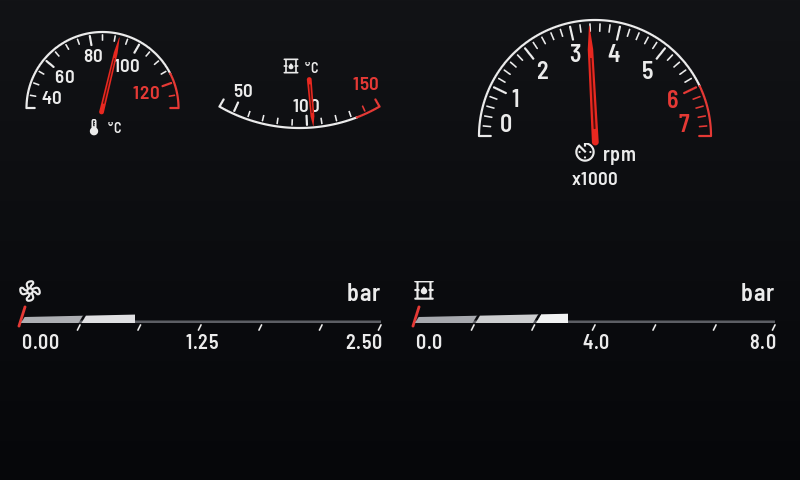
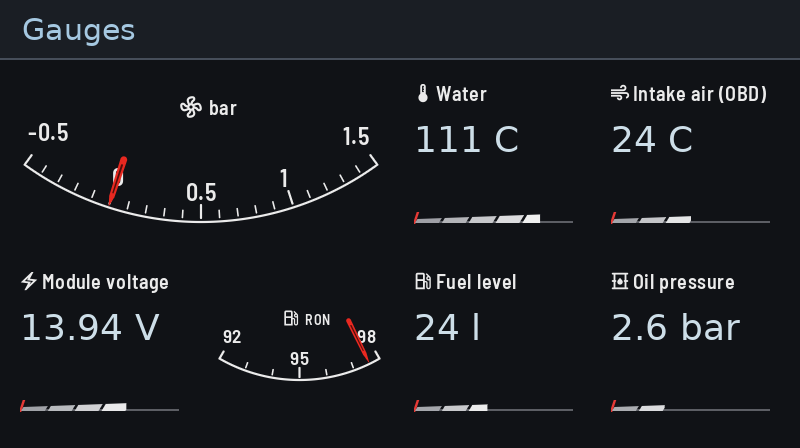
README: the first dashboard on the front page, the gauge looks and the alert
The owner's photo of the Gauges app (2026-11-27) as the README's first picture, rendered from the app's own pictures
at its cells (docs/images/gauges-dashboard.png, replacing the old default's temperature and rpm dials): Boost as a
wide arc, Water, Intake air, Module voltage, Fuel quality, Fuel level and Oil pressure. The Gauges section shows the
looks a gauge can take and how an alert flashes; INSTALL.md's caption follows.

diff --git a/README.md b/README.md
@@ -6,6 +6,8 @@
 
 [![License](https://img.shields.io/badge/license-PolyForm%20Noncommercial%201.0.0-blue)](LICENSE.md)
 
+![The Gauges app's first dashboard: boost as a wide arc, water, intake air, module voltage, fuel quality, fuel level and oil pressure](docs/images/gauges-dashboard.png)
+
 </div>
 
 > [!WARNING]
@@ -46,9 +48,14 @@ Auto core is still upstream's work, and several other projects gave code or show
 - A shift light, the engine's fault codes with descriptions (and a clear that asks first), Live values, and a
   *Car tests* page whose results show on screen, for checks at the car.
 
-![The Gauges dashboard: temperature dials, an rpm dial and boost and oil-pressure bars](docs/images/gauges-dashboard.png)
+The looks a gauge can take (*Gauge styles*) — a card, a dial, a fuel-gauge arc, a wide bar and a tall bar:
 
-![A gauge alert: as usual below it, flashing red past it; a card marks it with ! and a flashing bar](docs/images/gauge-alert.png)
+![The gauge looks: a card, a dial, a fuel-quality arc, a boost bar and an oil-pressure tall bar](docs/images/gauge-looks.png)
+
+An alert (here Water over 110 °C): as usual below it, flashing red past it; a card marks it with ! and its bar flashes
+red:
+
+![A gauge alert: as usual below it, flashing red past it; a card marks it with ! and its bar flashing red](docs/images/gauge-alert.png)
 
 **Camera** (iDrive app *AuxCamera*, under My Vehicle)
 

diff --git a/docs/INSTALL.md b/docs/INSTALL.md
@@ -90,9 +90,9 @@ The screen goes dark and iDrive comes back in about a minute and a half.
 | *My Vehicle* → *Gauges* | the dashboards; OPTION → *Gauge settings* to choose the gauges, their looks, places and ranges |
 | *My Vehicle* → *Camera* | a USB video grabber's picture, if one is plugged in |
 
-The Gauges dashboard (a rendering of the app's own gauges; the real screen looks the same):
+The Gauges app's first dashboard, before you choose anything (a rendering of the app's own pictures; the car shows the same):
 
-![The Gauges dashboard: temperature dials, an rpm dial and boost and oil-pressure bars](images/gauges-dashboard.png)
+![The Gauges app's first dashboard: boost as a wide arc, water, intake air, module voltage, fuel quality, fuel level and oil pressure](images/gauges-dashboard.png)
 
 The gauge looks you can pick in *Gauge styles* — a card, a dial, a fuel-gauge arc, a wide bar and a tall bar:
 
